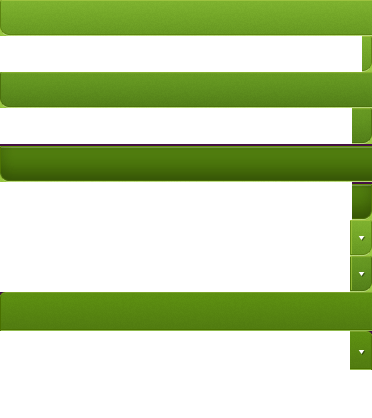
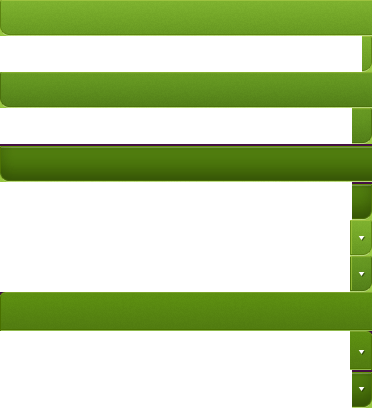
nbs_m6_gui

diff --git a/public/stylesheets/style.css b/public/stylesheets/style.css
@@ -32,12 +32,21 @@ body
 
 #head #global_loader
 {
-    background: url(/images/global_loader.gif) no-repeat;
+    background: url(/images/global_loader.gif) no-repeat center center #fff;
     position: fixed;
     width: 32px;
     height: 32px;
-    top: 5px;
-    right: 5px;
+    top: 15px;
+    right: 15px;
+
+    -moz-border-radius: 16px;
+    -webkit-border-radius: 16px;
+    border-radius: 16px;
+    
+    -moz-box-shadow: 0 0 10px #999;
+    -webkit-box-shadow: 0 0 10px #999;
+    box-shadow: 0 0 10px #999;
+
     display: none;
 }
 
@@ -207,7 +216,7 @@ h4
     padding-right: 35px;
 }
 
-#user_menu ul.nav li.has_child a:hover span
+#user_menu ul.nav li.has_child a:hover span    
 {
     background-position: right -256px;    
 }
@@ -215,6 +224,11 @@ h4
 #user_menu ul.nav li.has_child:hover ul.subnav
 {
     display: block;
+}
+
+#user_menu ul.nav li.has_child.active span
+{
+    background-position: right -370px;
 }
 
 #user_menu ul.subnav
@@ -255,7 +269,7 @@ h4
 #user_menu ul.subnav li.first a span,
 #user_menu ul.subnav li.first a:hover span
 {
-    background-position: right -331px;
+    background-position: right -331px !important;
     padding: 3px 0 0 15px;
     height: 35px;
     line-height: 35px;
@@ -645,6 +659,16 @@ h4
     display: block;
     background: url(/images/bg_header_ribbon_green.png) no-repeat right -43px;
 }
+
+.header_ribbon h1 span a
+{
+    color: #fff;
+    font-weight: normal;
+    text-decoration: none;
+    border-bottom: 1px dotted #fff;
+    font-size: 16px
+}
+
 
 .header_actions
 {

diff --git a/public/stylesheets/ocss/inputs.css b/public/stylesheets/ocss/inputs.css
@@ -653,6 +653,17 @@
 }
 
 
+.inputs_190 ol li.string input,
+.inputs_190 ol li.password input
+{
+	width: 190px;
+}
+.inputs_190 ol li.select select
+{
+	width: 202px;
+}
+
+
 .inputs_200 ol li.string input,
 .inputs_200 ol li.password input
 {
@@ -847,6 +858,17 @@
     padding: 0 3px 5px 5px;
 }
 
+
+
+/* --- commit --------------------------------------------------------------- */
+
+.inputs_vertical ol li.commit p
+{
+    float: left;
+    line-height: 30px;
+    padding-left: 5px;
+    font-size: 12px;
+}
 
 
 /* --- errors --------------------------------------------------------------- */

diff --git a/app/helpers/application_helper.rb b/app/helpers/application_helper.rb
@@ -153,11 +153,11 @@ module ApplicationHelper
   end
   
   def bt_clear_filter(url=nil)
-    button_to_function t("common.clear_filter"), "document.location = '#{url || request.path}'"
+    link_to_function t("common.clear_filter"), "document.location = '#{url || request.path}'"
   end
 
   def bt_clear_filter_safe
-    button_to_function t("common.clear_filter"), "clear_filter()"
+    link_to t("common.clear_filter"), "javascript:clear_filter()"
   end
   
   def format_date(date, with_time=false)
